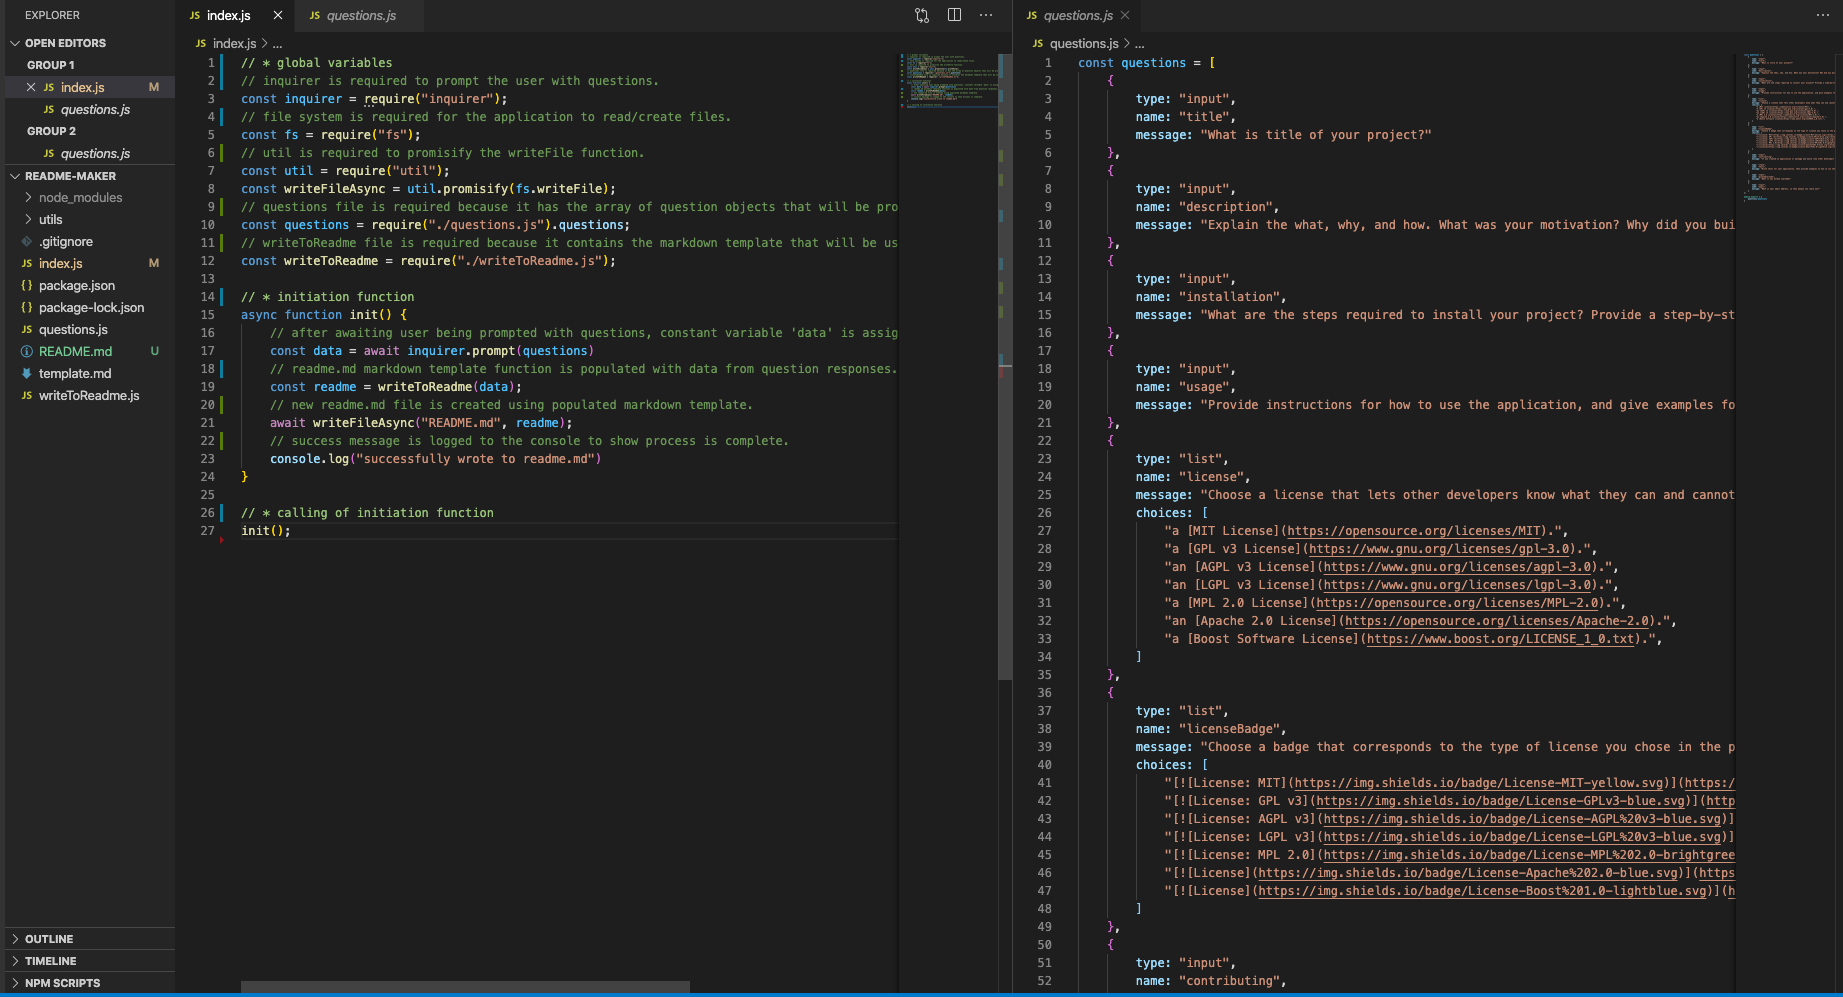
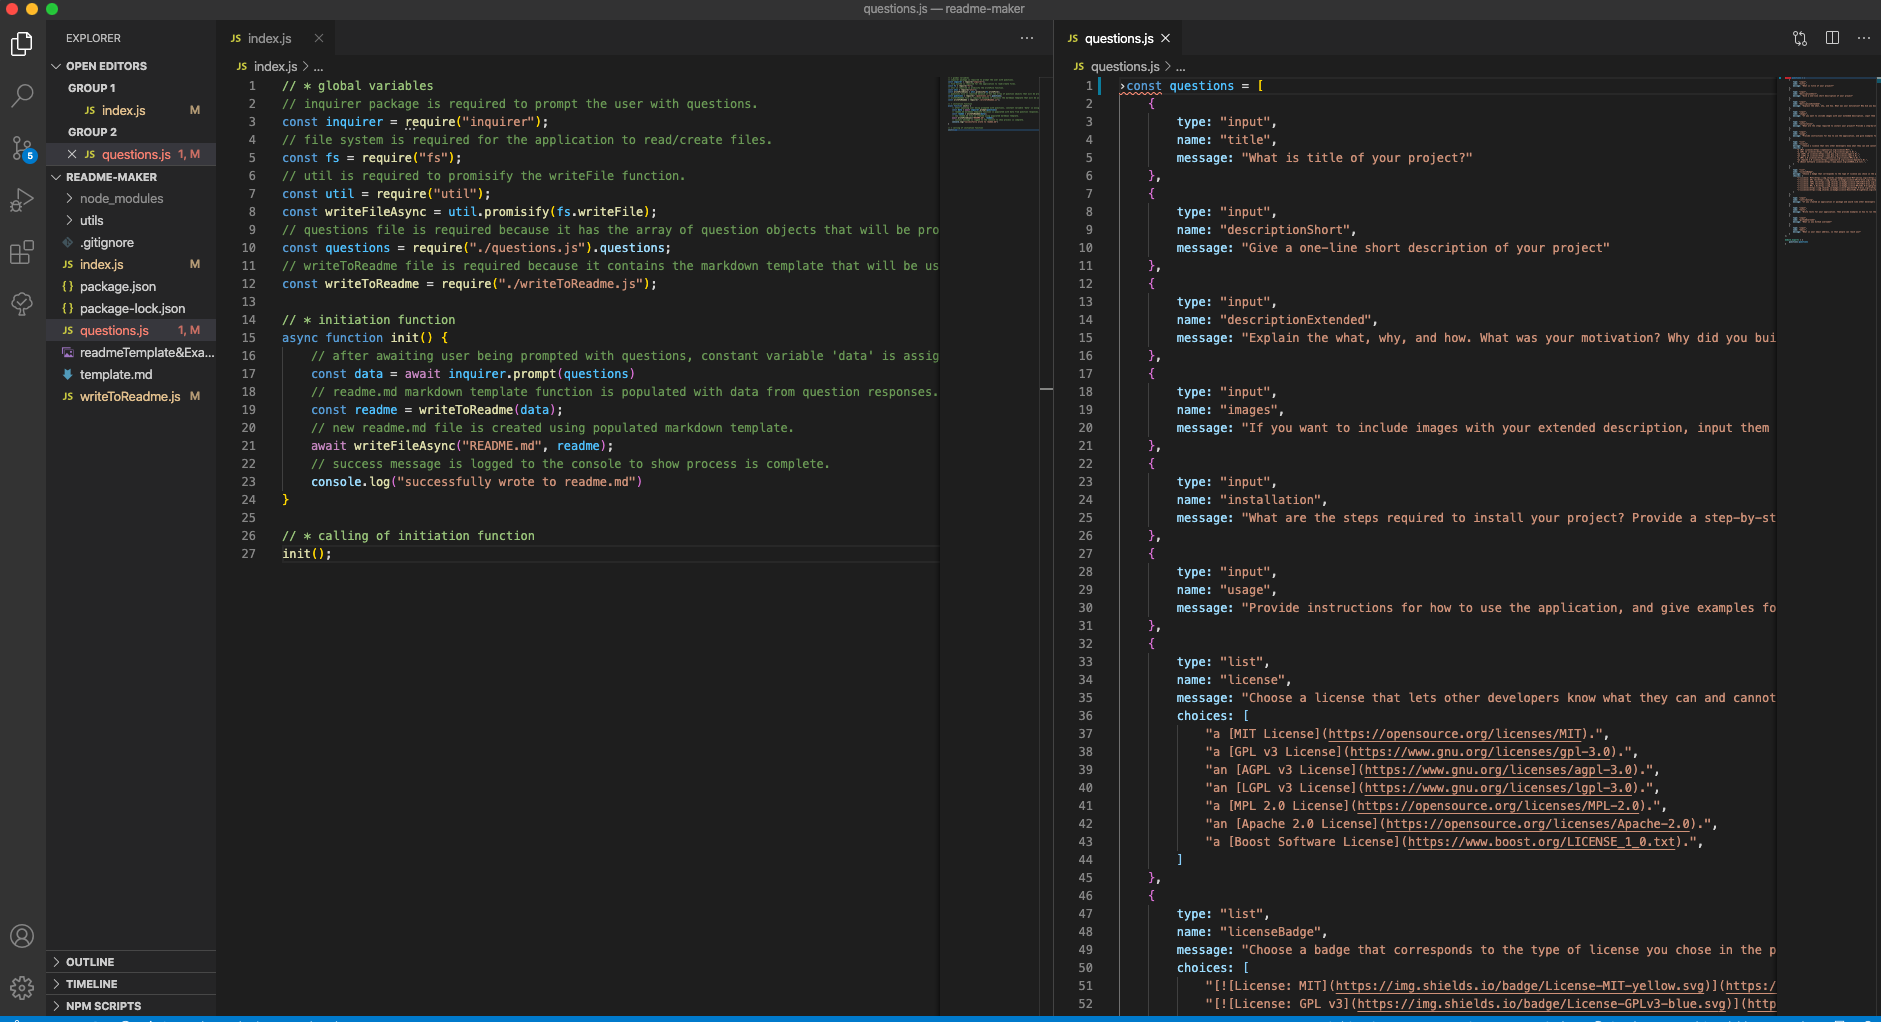
actual readme file written using the application, and images included.

diff --git a/README.md b/README.md
@@ -1,7 +1,7 @@
 
-# alkjaldfj
+# README MAKER
 
-## aldkjalkdfjalkj  
+## An easy way to complete a structured readme.md file  
 
 [![License: MIT](https://img.shields.io/badge/License-MIT-yellow.svg)](https://opensource.org/licenses/MIT)  
 
@@ -9,6 +9,7 @@
 
 ## Table of Contents
 
+* [Description](#description)
 * [Installation](#installation)
 * [Usage](#usage)
 * [License](#license)
@@ -20,21 +21,21 @@
 
 ## Description 
 
-aldkjaldfkjaldfkj  
+This is a simple application that guides you through the process of creating a structured readme. I made it to experiment with node.js, but also because I don't like having to put much thought into what goes into creating and structuring a readme file. So essentially, it just takes me through the content sections step by step, and then structures it for me. As long as I answer the questions, it produces a formatted readme file on the other end.    
 
-![image1](index&questions.png)   this is image1   ![image2](index&questions.png)   this is image2    ![image3](index&questions.png)   this is image3    
+![index.js file and questions.js file code examples](index&questions.png)   The above image is of the index.js file on the left, and then the modularized questions.js file on the right which contains the question used by the inquirer package.   ![code examples of the writeFile function, along with a completed (test) readme.md file, and a preview of it](writeFunction&readmeExample.png)   This image shows you the writeToReadme function, along with a generated (example) readme.md file, and a preview of it.  
 
 
 
 ## Installation
 
-lkjlkjlkja
+To install, make sure you have the package.json initiated, along with the dependencies installed (e.g. npm inquirer ). Then just open terminal and execute 'node index.js'
 
 
 
 ## Usage 
 
-adlkfjadlfkjasd 
+After installation, and using node to execute the index.js file, just let the application guide you through the process of answering each question. If you have images you want included, make sure these are included in any folders pushed to Github. When the readme file is generated, copy and paste it, along with any accompanying images, to your project files.  
 
 
 
@@ -46,21 +47,21 @@ a [MIT License](https://opensource.org/licenses/MIT).
 
 ## Contributing
 
-adslfkjadeflkj
+Feel free to contribute or give me suggestions for improvement at my email below.
 
 
 
 ## Tests
 
-aldkjldkj
+I don't have any tests at present.
 
 
 
 ## Questions
 
 Got questions? Feel free to contact me.  
-Github username: [adlfkj](https://github.com/adlfkj)  
-Email address: asdflkfj
+Github username: [domjparker](https://github.com/domjparker)  
+Email address: dominic.j.parker@gmail.com
 
 ---
 
